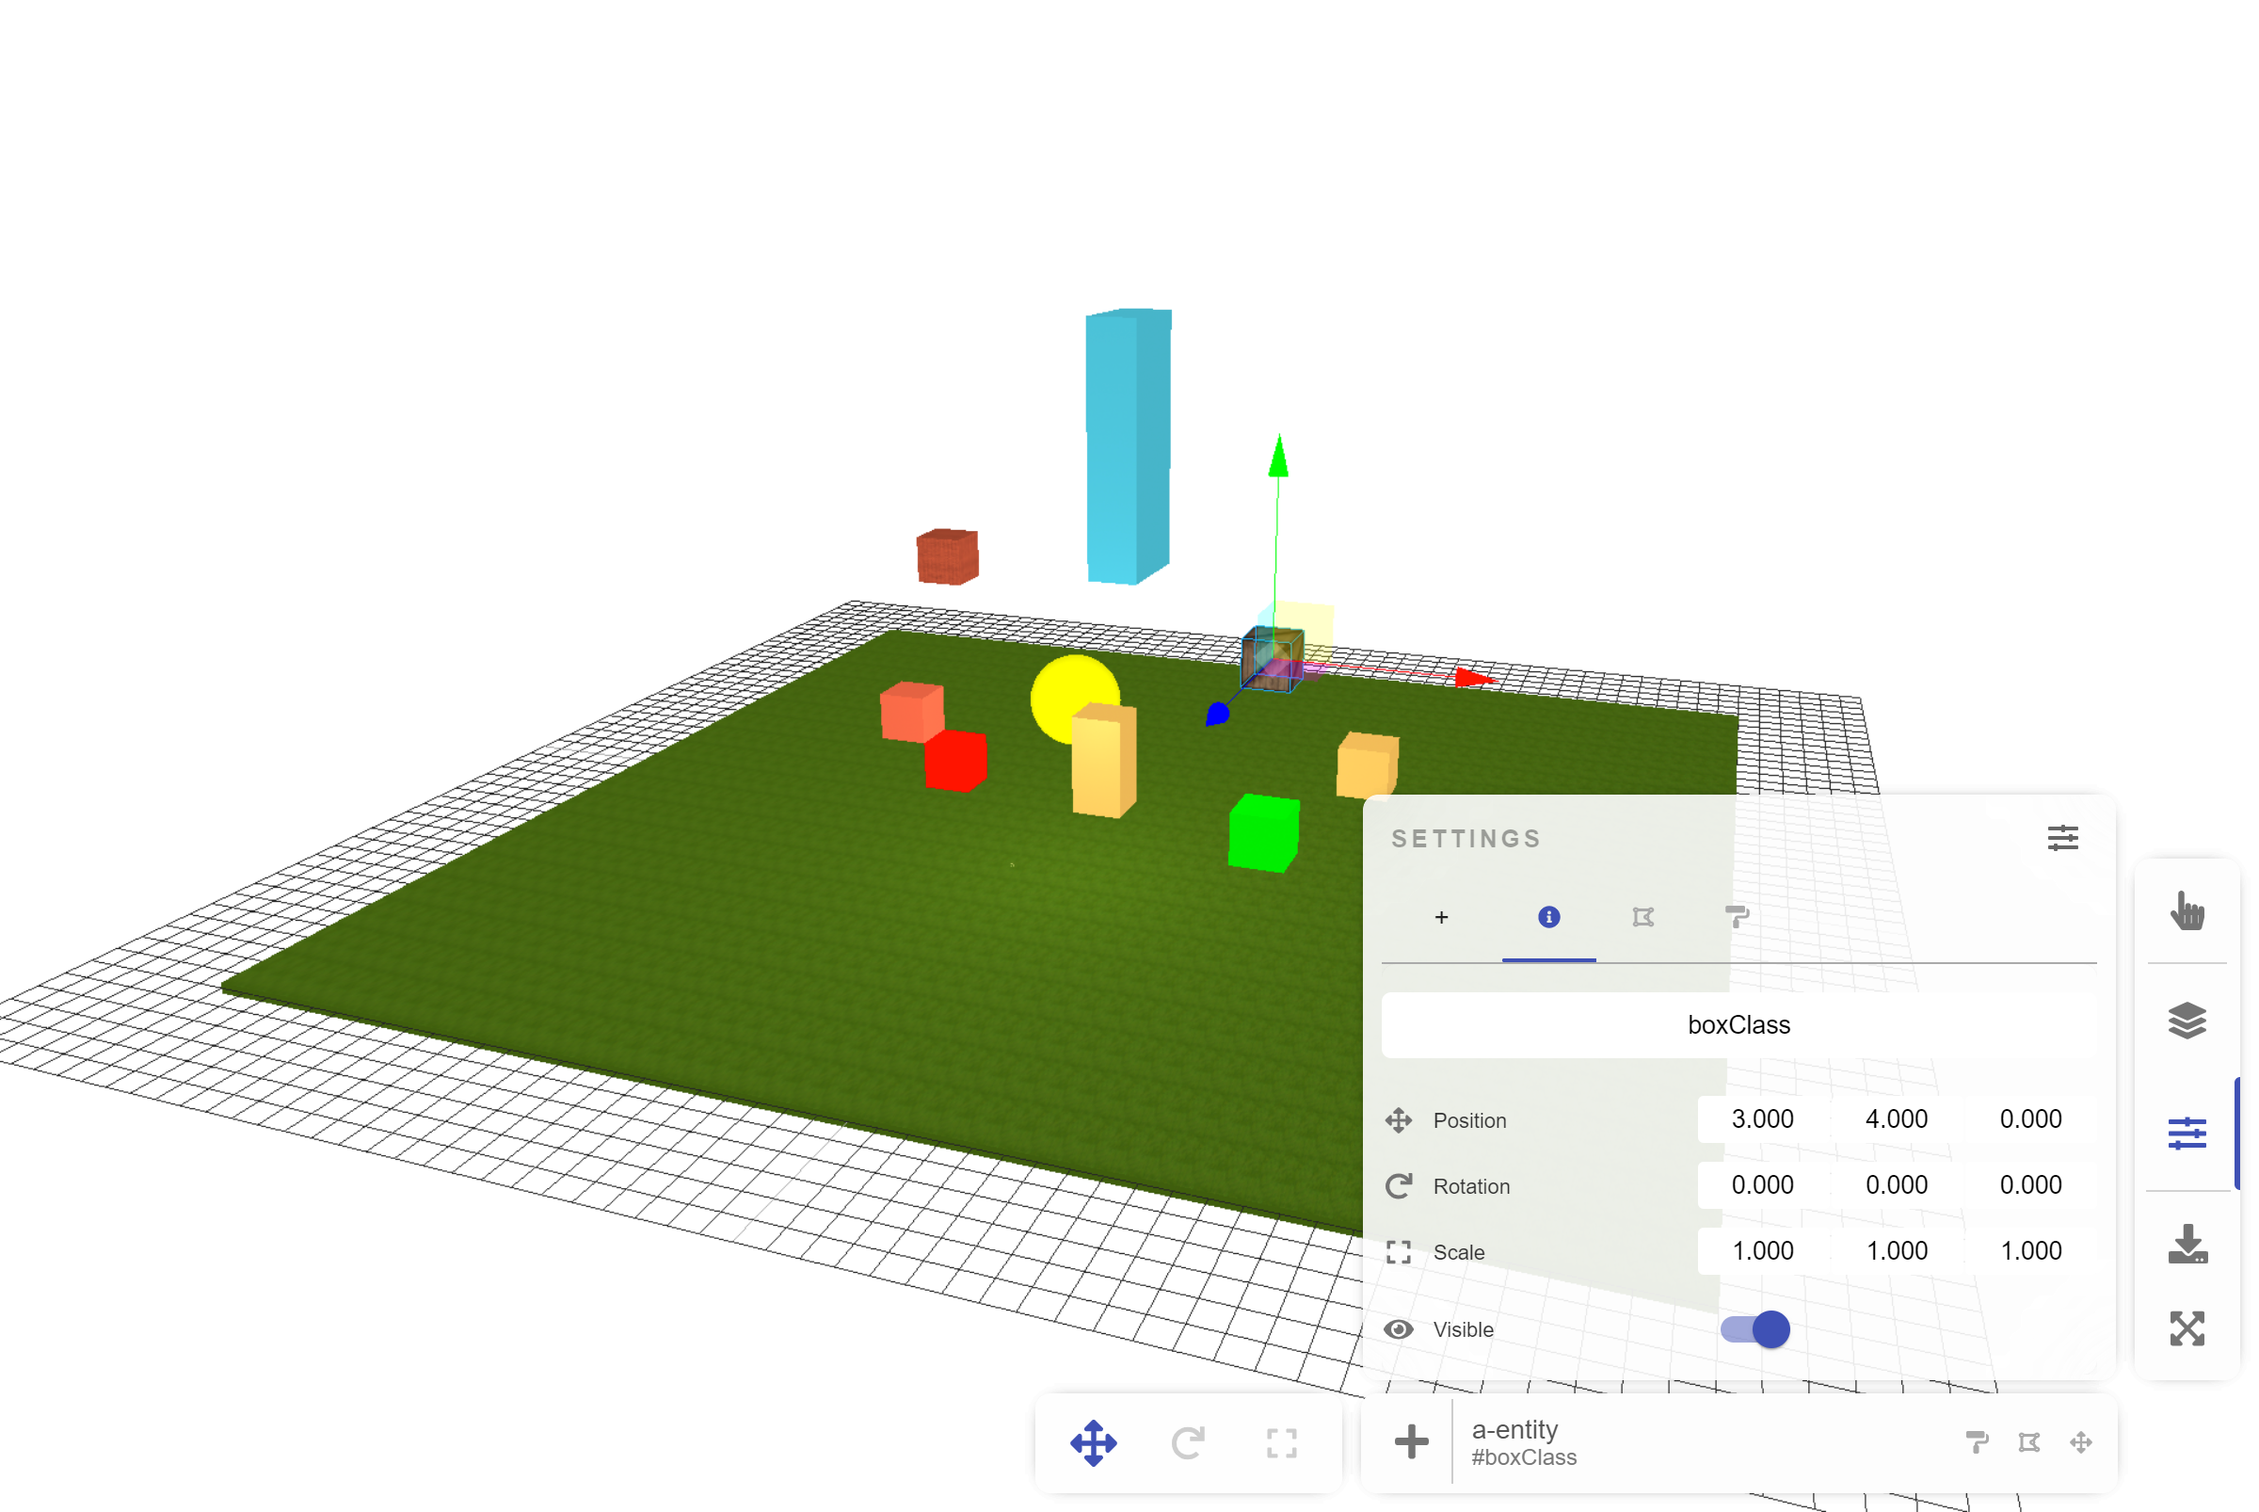
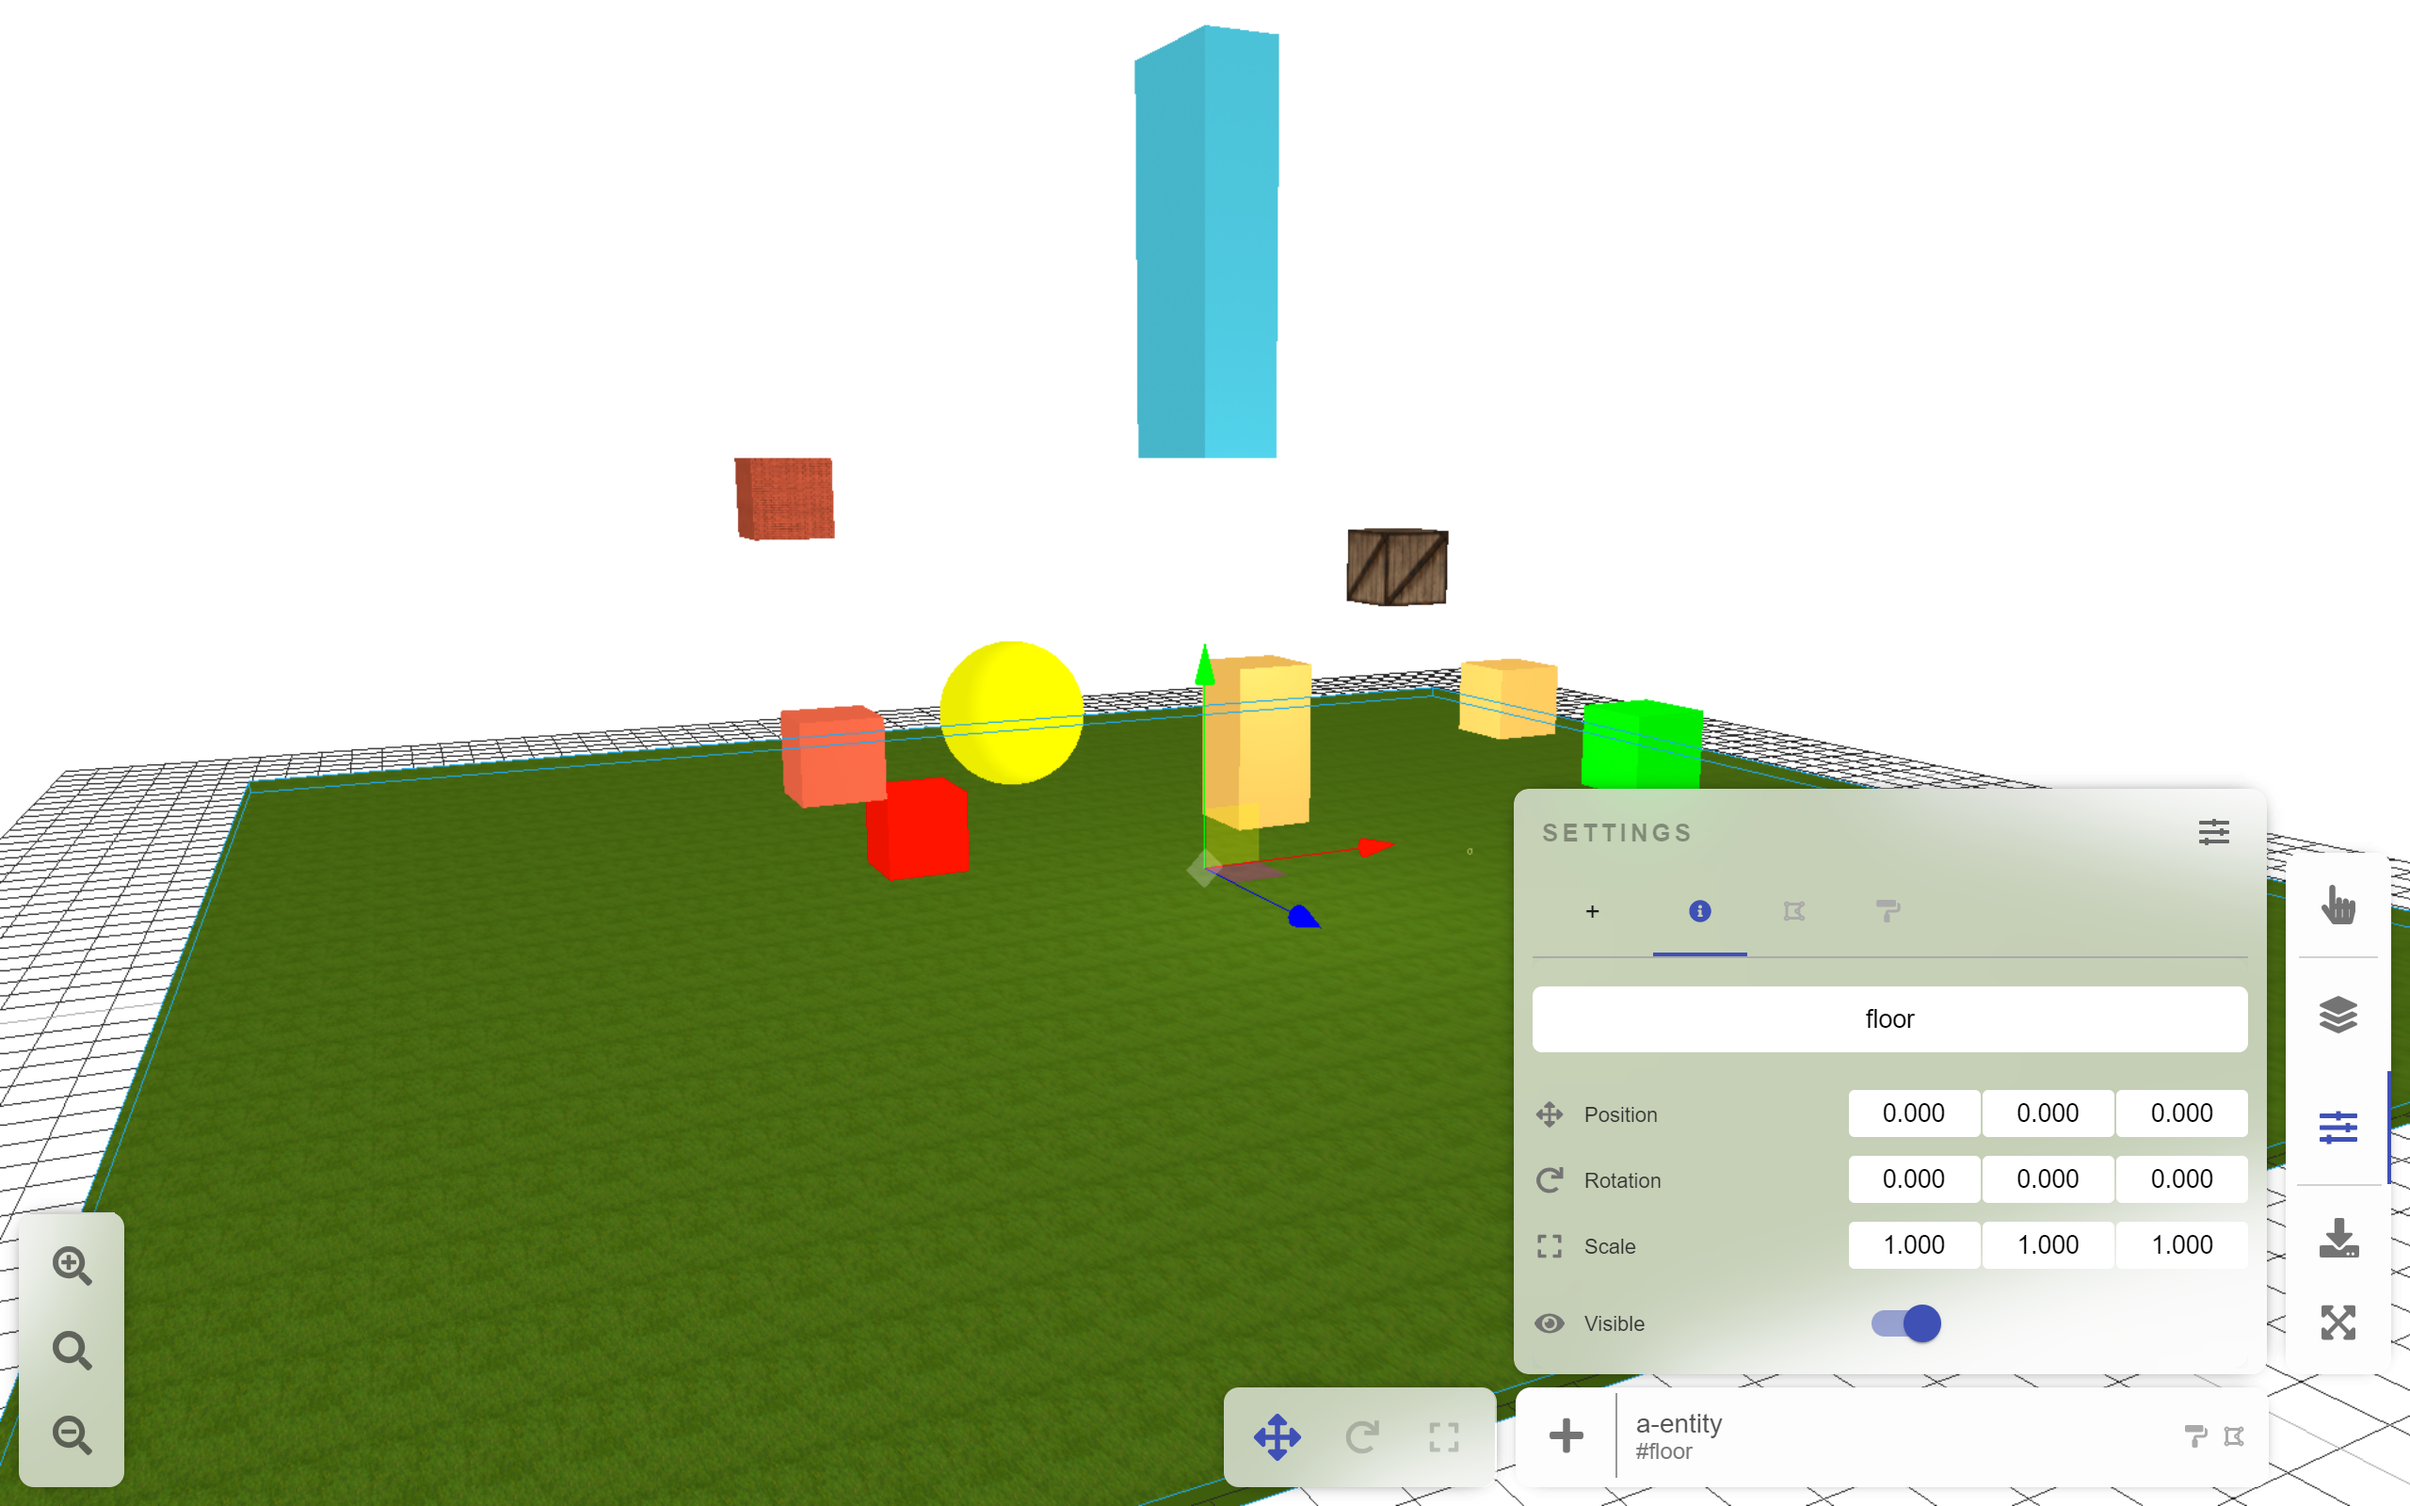
updated readme and preview

diff --git a/README.md b/README.md
@@ -32,6 +32,10 @@ The foundation, event sending and mechanics along with processing and exporting 
 - Added iconography to component properties
 - Added component specific documentation links to A-Frame relevant page
 - Added iconography to component descriptors and enhanced preview mechanic
+- Added default zoom view, and zoom in and out. In a transparent format
+- Updated transparency and borders for better clarity over various contrast tests
+- Refactored components of entities to represent their icons more compact in the preview hover
+- Refactored preview hover nesting and cursor / selection functionality
 
 **🗑 Removals:**
 - For now removed the camera/perspective switcher
@@ -40,7 +44,7 @@ The foundation, event sending and mechanics along with processing and exporting 
 - Refactored example to feature more groups and consistent naming
 - Removed environment library usage as it's model is not stable but generative
 - Disabled WebPack WDS logging from socket in DevTools
-- Removed Package-Name-Generator due to entire lodash dependency. Replaced with random string generator
+- Removed Package-Name-Generator due to entire lodash dependency. Replaced with random string generator;
 
 **📐 Technical:**
 - Refactored most components to functional files
@@ -50,7 +54,9 @@ The foundation, event sending and mechanics along with processing and exporting 
 - Updated toolchain
 - Added scripts for webpack bundle explorer (**deprecated**)
 - Added BundleAnalyzerPlugin for better analysis
-
+- Converted thread-blocking bundleAnalyzer to non blocking block chain
+- Added for all functional-hook oriented components correct teardowns on Event listeners
+- Added flagging on entity conversion flags to differentiate behavior where relevant
 
 **💡 ToDo:**
 - Make selection bounding box toggle-able
